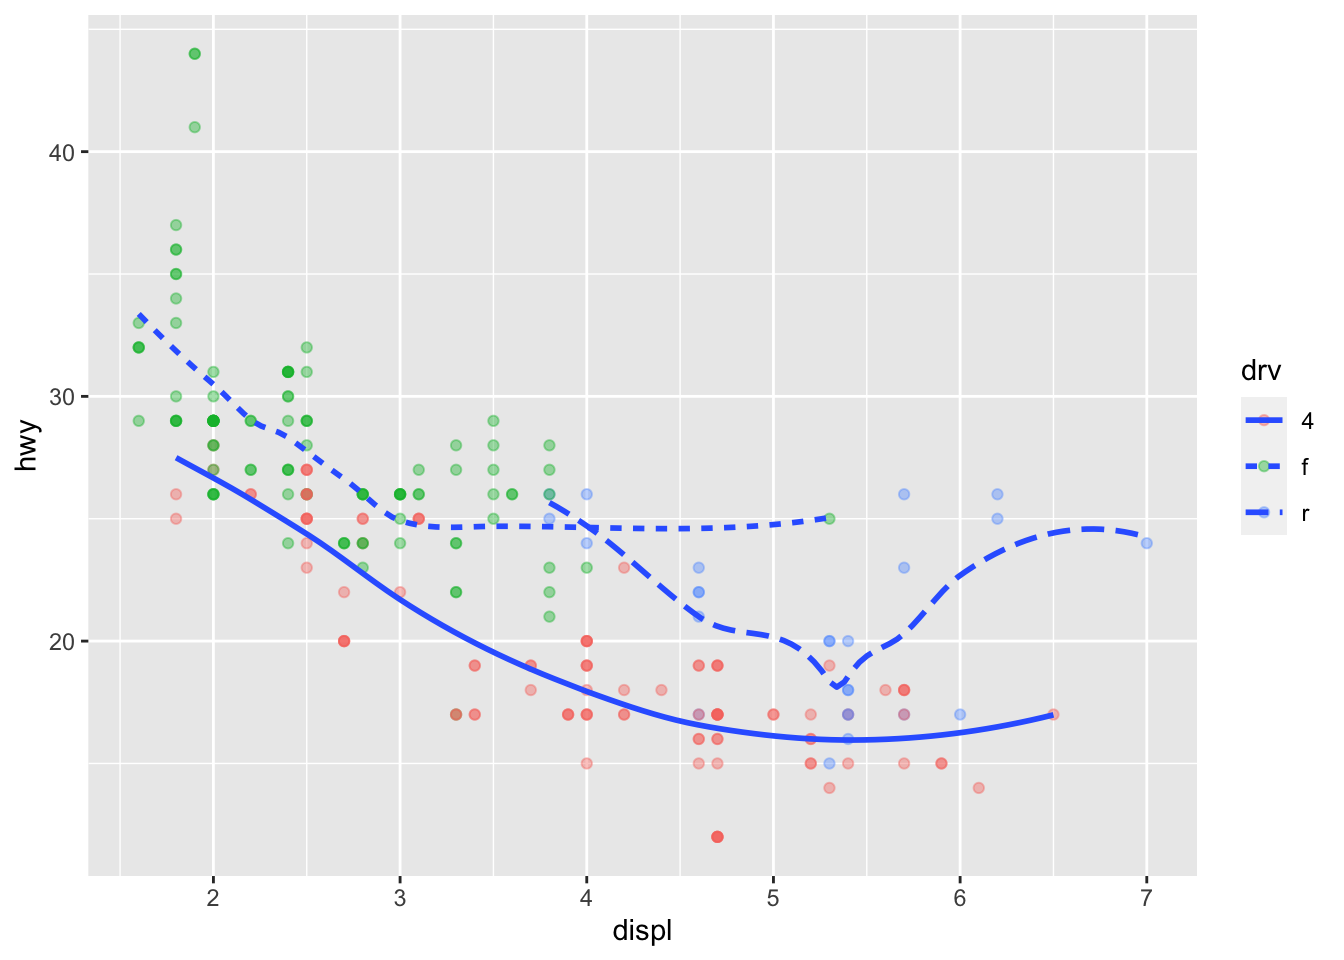
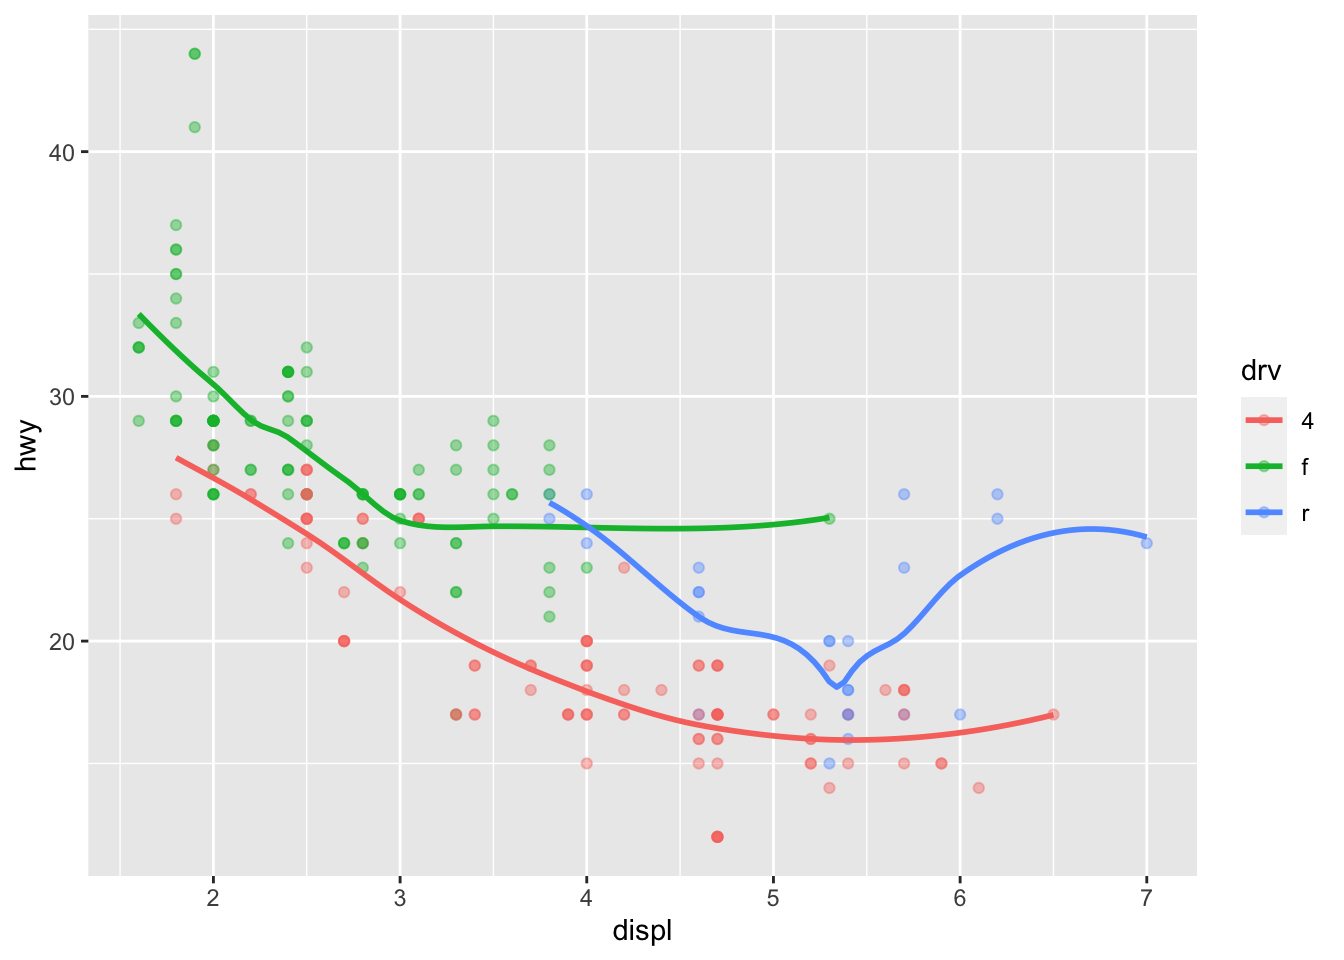
lec12

diff --git a/ex/danl200-cw-3.html b/ex/danl200-cw-3.html
@@ -319,7 +319,7 @@ code span.wa { color: #60a0b0; font-weight: bold; font-style: italic; } /* Warni
       <ul id="quarto-sidebar-section-2" class="collapse list-unstyled sidebar-section depth1 show">  
           <li class="sidebar-item">
   <div class="sidebar-item-container"> 
-  <a href="../ex/danl200-cw-3.html" class="sidebar-item-text sidebar-link active">03 - ggplot - geometric objects, stat, position</a>
+  <a href="../ex/danl200-cw-3.html" class="sidebar-item-text sidebar-link active">03 - ggplot - geometric objects</a>
   </div>
 </li>
           <li class="sidebar-item">
@@ -444,11 +444,6 @@ code span.wa { color: #60a0b0; font-weight: bold; font-style: italic; } /* Warni
   <li><a href="#f" id="toc-f" class="nav-link" data-scroll-target="#f">(f)</a></li>
   </ul></li>
   </ul></li>
-  <li><a href="#question-2.-statistical-transformation-and-position-adjustment" id="toc-question-2.-statistical-transformation-and-position-adjustment" class="nav-link" data-scroll-target="#question-2.-statistical-transformation-and-position-adjustment">Question 2. Statistical Transformation and Position Adjustment</a>
-  <ul class="collapse">
-  <li><a href="#q2a." id="toc-q2a." class="nav-link" data-scroll-target="#q2a.">Q2a.</a></li>
-  <li><a href="#q2b." id="toc-q2b." class="nav-link" data-scroll-target="#q2b.">Q2b.</a></li>
-  </ul></li>
   </ul>
 </nav>
     </div>
@@ -496,6 +491,27 @@ code span.wa { color: #60a0b0; font-weight: bold; font-style: italic; } /* Warni
 <h2 class="anchored" data-anchor-id="q1b.">Q1b.</h2>
 <p>What does <code>show.legend = FALSE</code> do? What happens if you remove it? Why do you think I used it earlier in the lecture?</p>
 <p><br></p>
+<p><strong>Answer:</strong> <code>show.legend = FALSE</code> turns off the legend in ggplot.</p>
+<div class="cell">
+<div class="sourceCode cell-code" id="cb2"><pre class="sourceCode r code-with-copy"><code class="sourceCode r"><span id="cb2-1"><a href="#cb2-1" aria-hidden="true" tabindex="-1"></a><span class="fu">ggplot</span>(<span class="at">data =</span> mpg) <span class="sc">+</span></span>
+<span id="cb2-2"><a href="#cb2-2" aria-hidden="true" tabindex="-1"></a>  <span class="fu">geom_point</span>(<span class="at">mapping =</span> <span class="fu">aes</span>(<span class="at">x =</span> displ, <span class="at">y =</span> hwy, <span class="at">color =</span> drv),</span>
+<span id="cb2-3"><a href="#cb2-3" aria-hidden="true" tabindex="-1"></a>             <span class="at">alpha =</span> .<span class="dv">5</span>,</span>
+<span id="cb2-4"><a href="#cb2-4" aria-hidden="true" tabindex="-1"></a>             <span class="at">show.legend =</span> <span class="cn">FALSE</span>)</span></code><button title="Copy to Clipboard" class="code-copy-button"><i class="bi"></i></button></pre></div>
+<div class="cell-output-display">
+<p><img src="danl200-cw-3_files/figure-html/unnamed-chunk-3-1.png" class="img-fluid" width="672"></p>
+</div>
+</div>
+<p>The default is <code>show.legend = TRUE</code>:</p>
+<div class="cell">
+<div class="sourceCode cell-code" id="cb3"><pre class="sourceCode r code-with-copy"><code class="sourceCode r"><span id="cb3-1"><a href="#cb3-1" aria-hidden="true" tabindex="-1"></a><span class="fu">ggplot</span>(<span class="at">data =</span> mpg) <span class="sc">+</span></span>
+<span id="cb3-2"><a href="#cb3-2" aria-hidden="true" tabindex="-1"></a>  <span class="fu">geom_point</span>(<span class="at">mapping =</span> <span class="fu">aes</span>(<span class="at">x =</span> displ, <span class="at">y =</span> hwy, <span class="at">color =</span> drv),</span>
+<span id="cb3-3"><a href="#cb3-3" aria-hidden="true" tabindex="-1"></a>             <span class="at">alpha =</span> .<span class="dv">5</span>,</span>
+<span id="cb3-4"><a href="#cb3-4" aria-hidden="true" tabindex="-1"></a>             <span class="at">show.legend =</span> <span class="cn">TRUE</span>)</span></code><button title="Copy to Clipboard" class="code-copy-button"><i class="bi"></i></button></pre></div>
+<div class="cell-output-display">
+<p><img src="danl200-cw-3_files/figure-html/unnamed-chunk-4-1.png" class="img-fluid" width="672"></p>
+</div>
+</div>
+<p>Sometimes, we do not need to have a separate legend in ggplot, for example, <code>geom_boxplot()</code> with <code>fill</code> mapping.</p>
 </section>
 <section id="q1c." class="level2">
 <h2 class="anchored" data-anchor-id="q1c.">Q1c.</h2>
@@ -503,8 +519,11 @@ code span.wa { color: #60a0b0; font-weight: bold; font-style: italic; } /* Warni
 <section id="a" class="level3">
 <h3 class="anchored" data-anchor-id="a">(a)</h3>
 <div class="cell">
+<div class="sourceCode cell-code" id="cb4"><pre class="sourceCode r code-with-copy"><code class="sourceCode r"><span id="cb4-1"><a href="#cb4-1" aria-hidden="true" tabindex="-1"></a><span class="fu">ggplot</span>(mpg, <span class="fu">aes</span>(<span class="at">x =</span> displ, <span class="at">y =</span> hwy)) <span class="sc">+</span></span>
+<span id="cb4-2"><a href="#cb4-2" aria-hidden="true" tabindex="-1"></a>  <span class="fu">geom_point</span>(<span class="at">alpha =</span> .<span class="dv">4</span>) <span class="sc">+</span></span>
+<span id="cb4-3"><a href="#cb4-3" aria-hidden="true" tabindex="-1"></a>  <span class="fu">geom_smooth</span>(<span class="at">se =</span> <span class="cn">FALSE</span>)</span></code><button title="Copy to Clipboard" class="code-copy-button"><i class="bi"></i></button></pre></div>
 <div class="cell-output-display">
-<p><img src="danl200-cw-3_files/figure-html/unnamed-chunk-3-1.png" class="img-fluid" width="672"></p>
+<p><img src="danl200-cw-3_files/figure-html/unnamed-chunk-5-1.png" class="img-fluid" width="672"></p>
 </div>
 </div>
 <p><br></p>
@@ -512,8 +531,11 @@ code span.wa { color: #60a0b0; font-weight: bold; font-style: italic; } /* Warni
 <section id="b" class="level3">
 <h3 class="anchored" data-anchor-id="b">(b)</h3>
 <div class="cell">
+<div class="sourceCode cell-code" id="cb5"><pre class="sourceCode r code-with-copy"><code class="sourceCode r"><span id="cb5-1"><a href="#cb5-1" aria-hidden="true" tabindex="-1"></a><span class="fu">ggplot</span>(mpg, <span class="fu">aes</span>(<span class="at">x =</span> displ, <span class="at">y =</span> hwy)) <span class="sc">+</span></span>
+<span id="cb5-2"><a href="#cb5-2" aria-hidden="true" tabindex="-1"></a>  <span class="fu">geom_smooth</span>(<span class="at">mapping =</span> <span class="fu">aes</span>(<span class="at">group =</span> drv), <span class="at">se =</span> <span class="cn">FALSE</span>) <span class="sc">+</span></span>
+<span id="cb5-3"><a href="#cb5-3" aria-hidden="true" tabindex="-1"></a>  <span class="fu">geom_point</span>(<span class="at">alpha =</span> .<span class="dv">4</span>)</span></code><button title="Copy to Clipboard" class="code-copy-button"><i class="bi"></i></button></pre></div>
 <div class="cell-output-display">
-<p><img src="danl200-cw-3_files/figure-html/unnamed-chunk-4-1.png" class="img-fluid" width="672"></p>
+<p><img src="danl200-cw-3_files/figure-html/unnamed-chunk-6-1.png" class="img-fluid" width="672"></p>
 </div>
 </div>
 <p><br></p>
@@ -521,8 +543,11 @@ code span.wa { color: #60a0b0; font-weight: bold; font-style: italic; } /* Warni
 <section id="c" class="level3">
 <h3 class="anchored" data-anchor-id="c">(c)</h3>
 <div class="cell">
+<div class="sourceCode cell-code" id="cb6"><pre class="sourceCode r code-with-copy"><code class="sourceCode r"><span id="cb6-1"><a href="#cb6-1" aria-hidden="true" tabindex="-1"></a><span class="fu">ggplot</span>(mpg, <span class="fu">aes</span>(<span class="at">x =</span> displ, <span class="at">y =</span> hwy, <span class="at">color =</span> drv)) <span class="sc">+</span></span>
+<span id="cb6-2"><a href="#cb6-2" aria-hidden="true" tabindex="-1"></a>  <span class="fu">geom_point</span>(<span class="at">alpha =</span> .<span class="dv">4</span>) <span class="sc">+</span></span>
+<span id="cb6-3"><a href="#cb6-3" aria-hidden="true" tabindex="-1"></a>  <span class="fu">geom_smooth</span>(<span class="at">se =</span> <span class="cn">FALSE</span>)</span></code><button title="Copy to Clipboard" class="code-copy-button"><i class="bi"></i></button></pre></div>
 <div class="cell-output-display">
-<p><img src="danl200-cw-3_files/figure-html/unnamed-chunk-5-1.png" class="img-fluid" width="672"></p>
+<p><img src="danl200-cw-3_files/figure-html/unnamed-chunk-7-1.png" class="img-fluid" width="672"></p>
 </div>
 </div>
 <p><br></p>
@@ -530,8 +555,11 @@ code span.wa { color: #60a0b0; font-weight: bold; font-style: italic; } /* Warni
 <section id="d" class="level3">
 <h3 class="anchored" data-anchor-id="d">(d)</h3>
 <div class="cell">
+<div class="sourceCode cell-code" id="cb7"><pre class="sourceCode r code-with-copy"><code class="sourceCode r"><span id="cb7-1"><a href="#cb7-1" aria-hidden="true" tabindex="-1"></a><span class="fu">ggplot</span>(mpg, <span class="fu">aes</span>(<span class="at">x =</span> displ, <span class="at">y =</span> hwy)) <span class="sc">+</span></span>
+<span id="cb7-2"><a href="#cb7-2" aria-hidden="true" tabindex="-1"></a>  <span class="fu">geom_point</span>(<span class="fu">aes</span>(<span class="at">color =</span> drv), <span class="at">alpha =</span> .<span class="dv">4</span>) <span class="sc">+</span></span>
+<span id="cb7-3"><a href="#cb7-3" aria-hidden="true" tabindex="-1"></a>  <span class="fu">geom_smooth</span>(<span class="at">se =</span> <span class="cn">FALSE</span>)</span></code><button title="Copy to Clipboard" class="code-copy-button"><i class="bi"></i></button></pre></div>
 <div class="cell-output-display">
-<p><img src="danl200-cw-3_files/figure-html/unnamed-chunk-6-1.png" class="img-fluid" width="672"></p>
+<p><img src="danl200-cw-3_files/figure-html/unnamed-chunk-8-1.png" class="img-fluid" width="672"></p>
 </div>
 </div>
 <p><br></p>
@@ -539,8 +567,11 @@ code span.wa { color: #60a0b0; font-weight: bold; font-style: italic; } /* Warni
 <section id="e" class="level3">
 <h3 class="anchored" data-anchor-id="e">(e)</h3>
 <div class="cell">
+<div class="sourceCode cell-code" id="cb8"><pre class="sourceCode r code-with-copy"><code class="sourceCode r"><span id="cb8-1"><a href="#cb8-1" aria-hidden="true" tabindex="-1"></a><span class="fu">ggplot</span>(mpg, <span class="fu">aes</span>(<span class="at">x =</span> displ, <span class="at">y =</span> hwy)) <span class="sc">+</span></span>
+<span id="cb8-2"><a href="#cb8-2" aria-hidden="true" tabindex="-1"></a>  <span class="fu">geom_point</span>(<span class="fu">aes</span>(<span class="at">color =</span> drv), <span class="at">alpha =</span> .<span class="dv">4</span>) <span class="sc">+</span></span>
+<span id="cb8-3"><a href="#cb8-3" aria-hidden="true" tabindex="-1"></a>  <span class="fu">geom_smooth</span>(<span class="fu">aes</span>(<span class="at">linetype =</span> drv), <span class="at">se =</span> <span class="cn">FALSE</span>)</span></code><button title="Copy to Clipboard" class="code-copy-button"><i class="bi"></i></button></pre></div>
 <div class="cell-output-display">
-<p><img src="danl200-cw-3_files/figure-html/unnamed-chunk-7-1.png" class="img-fluid" width="672"></p>
+<p><img src="danl200-cw-3_files/figure-html/unnamed-chunk-9-1.png" class="img-fluid" width="672"></p>
 </div>
 </div>
 <p><br></p>
@@ -549,33 +580,29 @@ code span.wa { color: #60a0b0; font-weight: bold; font-style: italic; } /* Warni
 <h3 class="anchored" data-anchor-id="f">(f)</h3>
 <div class="cell">
 <div class="cell-output-display">
-<p><img src="danl200-cw-3_files/figure-html/unnamed-chunk-8-1.png" class="img-fluid" width="672"></p>
+<p><img src="danl200-cw-3_files/figure-html/unnamed-chunk-10-1.png" class="img-fluid" width="672"></p>
 </div>
 </div>
 <p><br></p>
-</section>
-</section>
-</section>
-<section id="question-2.-statistical-transformation-and-position-adjustment" class="level1">
-<h1>Question 2. Statistical Transformation and Position Adjustment</h1>
-<section id="q2a." class="level2">
-<h2 class="anchored" data-anchor-id="q2a.">Q2a.</h2>
-<p>What does <code>geom_col()</code> do? How is it different to <code>geom_bar()</code>?</p>
-<div class="cell">
-<div class="sourceCode cell-code" id="cb2"><pre class="sourceCode r code-with-copy"><code class="sourceCode r"><span id="cb2-1"><a href="#cb2-1" aria-hidden="true" tabindex="-1"></a><span class="fu">ggplot</span>(<span class="at">data =</span> mpg, </span>
-<span id="cb2-2"><a href="#cb2-2" aria-hidden="true" tabindex="-1"></a>       <span class="at">mapping =</span> <span class="fu">aes</span>(<span class="at">x =</span> displ, <span class="at">y =</span> hwy, </span>
-<span id="cb2-3"><a href="#cb2-3" aria-hidden="true" tabindex="-1"></a>                     <span class="at">color =</span> drv)) <span class="sc">+</span></span>
-<span id="cb2-4"><a href="#cb2-4" aria-hidden="true" tabindex="-1"></a>  <span class="fu">geom_point</span>(<span class="at">alpha =</span> .<span class="dv">4</span>) <span class="sc">+</span></span>
-<span id="cb2-5"><a href="#cb2-5" aria-hidden="true" tabindex="-1"></a>  <span class="fu">geom_smooth</span>(<span class="at">se =</span> <span class="cn">FALSE</span>)</span></code><button title="Copy to Clipboard" class="code-copy-button"><i class="bi"></i></button></pre></div>
-</div>
-<p><br></p>
-</section>
-<section id="q2b." class="level2">
-<h2 class="anchored" data-anchor-id="q2b.">Q2b.</h2>
-<p>What’s the default position adjustment for <code>geom_boxplot()</code>? Create a visualization of the <code>mpg</code> dataset that demonstrates it.</p>
-<p><br></p>
+<!-- # Question 2. Statistical Transformation and Position Adjustment -->
+<!-- ## Q2a. -->
+<!-- What does `geom_col()` do? How is it different to `geom_bar()`? -->
+<!-- ```{r} -->
+<!-- #| echo: true -->
+<!-- #| eval: false -->
+<!-- ggplot(data = mpg,  -->
+<!--        mapping = aes(x = displ, y = hwy,  -->
+<!--                      color = drv)) + -->
+<!--   geom_point(alpha = .4) + -->
+<!--   geom_smooth(se = FALSE) -->
+<!-- ``` -->
+<!-- <br> -->
+<!-- ## Q2b. -->
+<!-- What’s the default position adjustment for `geom_boxplot()`? Create a visualization of the `mpg` dataset that demonstrates it. -->
+<!-- <br> -->
 
 
+</section>
 </section>
 </section>
 

diff --git a/ex/danl200-cw-1.html b/ex/danl200-cw-1.html
@@ -322,7 +322,7 @@ code span.wa { color: #60a0b0; font-weight: bold; font-style: italic; } /* Warni
       <ul id="quarto-sidebar-section-2" class="collapse list-unstyled sidebar-section depth1 show">  
           <li class="sidebar-item">
   <div class="sidebar-item-container"> 
-  <a href="../ex/danl200-cw-3.html" class="sidebar-item-text sidebar-link">03 - ggplot - geometric objects, stat, position</a>
+  <a href="../ex/danl200-cw-3.html" class="sidebar-item-text sidebar-link">03 - ggplot - geometric objects</a>
   </div>
 </li>
           <li class="sidebar-item">

diff --git a/ex/danl200-cw-2.html b/ex/danl200-cw-2.html
@@ -322,7 +322,7 @@ code span.wa { color: #60a0b0; font-weight: bold; font-style: italic; } /* Warni
       <ul id="quarto-sidebar-section-2" class="collapse list-unstyled sidebar-section depth1 show">  
           <li class="sidebar-item">
   <div class="sidebar-item-container"> 
-  <a href="../ex/danl200-cw-3.html" class="sidebar-item-text sidebar-link">03 - ggplot - geometric objects, stat, position</a>
+  <a href="../ex/danl200-cw-3.html" class="sidebar-item-text sidebar-link">03 - ggplot - geometric objects</a>
   </div>
 </li>
           <li class="sidebar-item">

diff --git a/ex/danl200-hw-1.html b/ex/danl200-hw-1.html
@@ -319,7 +319,7 @@ code span.wa { color: #60a0b0; font-weight: bold; font-style: italic; } /* Warni
       <ul id="quarto-sidebar-section-2" class="collapse list-unstyled sidebar-section depth1 ">  
           <li class="sidebar-item">
   <div class="sidebar-item-container"> 
-  <a href="../ex/danl200-cw-3.html" class="sidebar-item-text sidebar-link">03 - ggplot - geometric objects, stat, position</a>
+  <a href="../ex/danl200-cw-3.html" class="sidebar-item-text sidebar-link">03 - ggplot - geometric objects</a>
   </div>
 </li>
           <li class="sidebar-item">

diff --git a/ex/danl200-cw-4.html b/ex/danl200-cw-4.html
@@ -256,7 +256,7 @@ ul.task-list li input[type="checkbox"] {
       <ul id="quarto-sidebar-section-2" class="collapse list-unstyled sidebar-section depth1 ">  
           <li class="sidebar-item">
   <div class="sidebar-item-container"> 
-  <a href="../ex/danl200-cw-3.html" class="sidebar-item-text sidebar-link">03 - ggplot - geometric objects, stat, position</a>
+  <a href="../ex/danl200-cw-3.html" class="sidebar-item-text sidebar-link">03 - ggplot - geometric objects</a>
   </div>
 </li>
           <li class="sidebar-item">

diff --git a/ex/econ340-cw-1.html b/ex/econ340-cw-1.html
@@ -257,7 +257,7 @@ ul.task-list li input[type="checkbox"] {
       <ul id="quarto-sidebar-section-2" class="collapse list-unstyled sidebar-section depth1 ">  
           <li class="sidebar-item">
   <div class="sidebar-item-container"> 
-  <a href="../ex/danl200-cw-3.html" class="sidebar-item-text sidebar-link">03 - ggplot - geometric objects, stat, position</a>
+  <a href="../ex/danl200-cw-3.html" class="sidebar-item-text sidebar-link">03 - ggplot - geometric objects</a>
   </div>
 </li>
           <li class="sidebar-item">

diff --git a/ex/econ340-cw-2.html b/ex/econ340-cw-2.html
@@ -257,7 +257,7 @@ ul.task-list li input[type="checkbox"] {
       <ul id="quarto-sidebar-section-2" class="collapse list-unstyled sidebar-section depth1 ">  
           <li class="sidebar-item">
   <div class="sidebar-item-container"> 
-  <a href="../ex/danl200-cw-3.html" class="sidebar-item-text sidebar-link">03 - ggplot - geometric objects, stat, position</a>
+  <a href="../ex/danl200-cw-3.html" class="sidebar-item-text sidebar-link">03 - ggplot - geometric objects</a>
   </div>
 </li>
           <li class="sidebar-item">

diff --git a/ex/econ340-cw-3.html b/ex/econ340-cw-3.html
@@ -256,7 +256,7 @@ ul.task-list li input[type="checkbox"] {
       <ul id="quarto-sidebar-section-2" class="collapse list-unstyled sidebar-section depth1 ">  
           <li class="sidebar-item">
   <div class="sidebar-item-container"> 
-  <a href="../ex/danl200-cw-3.html" class="sidebar-item-text sidebar-link">03 - ggplot - geometric objects, stat, position</a>
+  <a href="../ex/danl200-cw-3.html" class="sidebar-item-text sidebar-link">03 - ggplot - geometric objects</a>
   </div>
 </li>
           <li class="sidebar-item">

diff --git a/ex/econ340-cw-4.html b/ex/econ340-cw-4.html
@@ -257,7 +257,7 @@ ul.task-list li input[type="checkbox"] {
       <ul id="quarto-sidebar-section-2" class="collapse list-unstyled sidebar-section depth1 ">  
           <li class="sidebar-item">
   <div class="sidebar-item-container"> 
-  <a href="../ex/danl200-cw-3.html" class="sidebar-item-text sidebar-link">03 - ggplot - geometric objects, stat, position</a>
+  <a href="../ex/danl200-cw-3.html" class="sidebar-item-text sidebar-link">03 - ggplot - geometric objects</a>
   </div>
 </li>
           <li class="sidebar-item">

diff --git a/ex/econ340-cw-5.html b/ex/econ340-cw-5.html
@@ -257,7 +257,7 @@ ul.task-list li input[type="checkbox"] {
       <ul id="quarto-sidebar-section-2" class="collapse list-unstyled sidebar-section depth1 ">  
           <li class="sidebar-item">
   <div class="sidebar-item-container"> 
-  <a href="../ex/danl200-cw-3.html" class="sidebar-item-text sidebar-link">03 - ggplot - geometric objects, stat, position</a>
+  <a href="../ex/danl200-cw-3.html" class="sidebar-item-text sidebar-link">03 - ggplot - geometric objects</a>
   </div>
 </li>
           <li class="sidebar-item">

diff --git a/ex/econ340-hw-1-a.html b/ex/econ340-hw-1-a.html
@@ -257,7 +257,7 @@ ul.task-list li input[type="checkbox"] {
       <ul id="quarto-sidebar-section-2" class="collapse list-unstyled sidebar-section depth1 ">  
           <li class="sidebar-item">
   <div class="sidebar-item-container"> 
-  <a href="../ex/danl200-cw-3.html" class="sidebar-item-text sidebar-link">03 - ggplot - geometric objects, stat, position</a>
+  <a href="../ex/danl200-cw-3.html" class="sidebar-item-text sidebar-link">03 - ggplot - geometric objects</a>
   </div>
 </li>
           <li class="sidebar-item">

diff --git a/ex/econ340-hw-1.html b/ex/econ340-hw-1.html
@@ -257,7 +257,7 @@ ul.task-list li input[type="checkbox"] {
       <ul id="quarto-sidebar-section-2" class="collapse list-unstyled sidebar-section depth1 ">  
           <li class="sidebar-item">
   <div class="sidebar-item-container"> 
-  <a href="../ex/danl200-cw-3.html" class="sidebar-item-text sidebar-link">03 - ggplot - geometric objects, stat, position</a>
+  <a href="../ex/danl200-cw-3.html" class="sidebar-item-text sidebar-link">03 - ggplot - geometric objects</a>
   </div>
 </li>
           <li class="sidebar-item">
